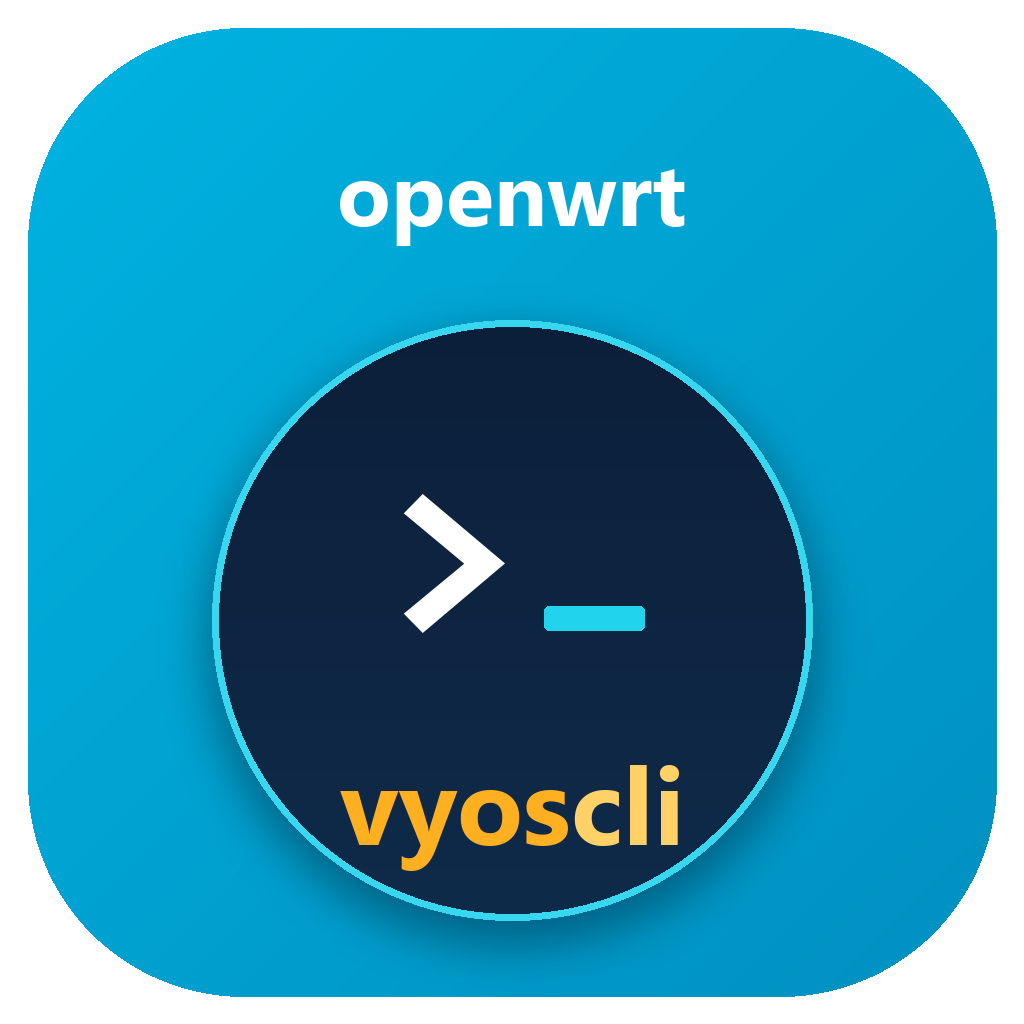
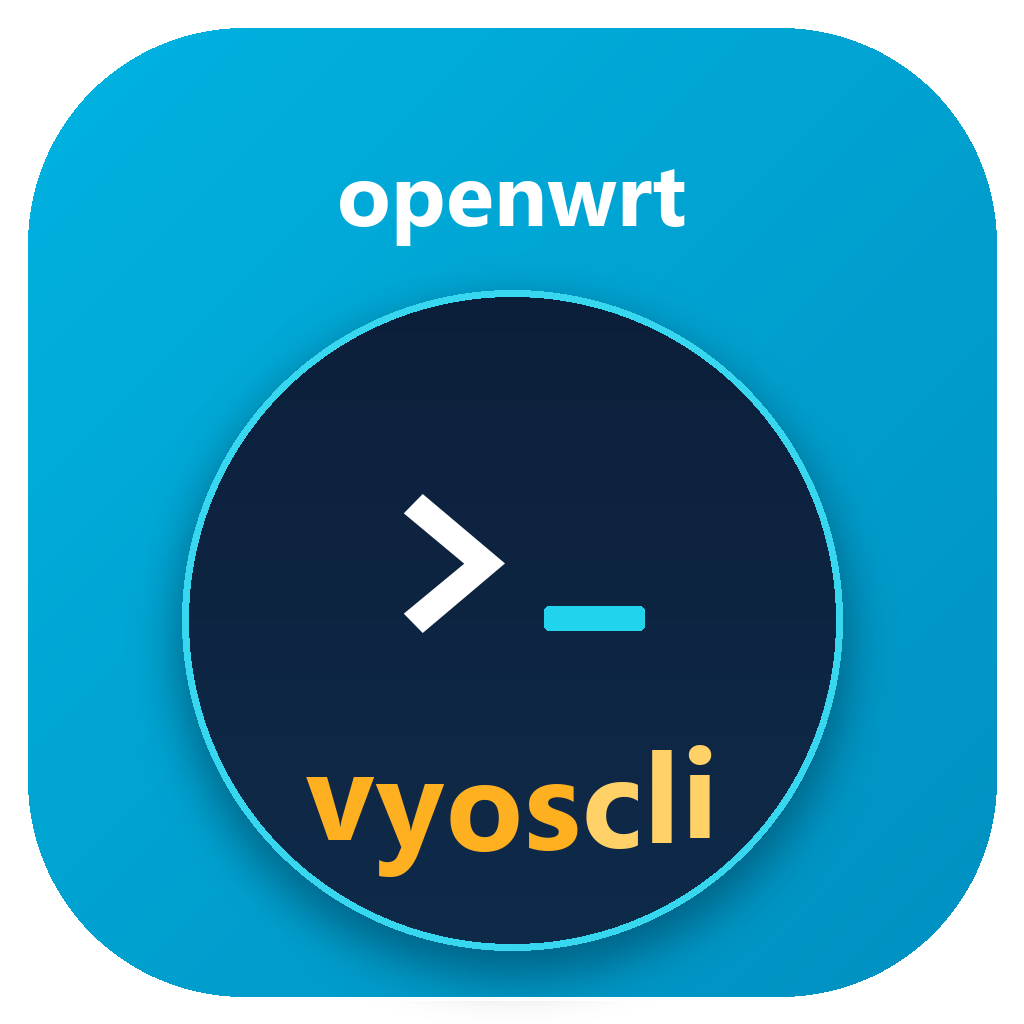
docs: enlarge vyoscli wordmark along the circle edge
The wordmark grows to 126px and sits on a shallow arc near the lower inside edge of the larger VyOS circle (radius 330), keeping upright letters for readability. PNG sizes and SVG regenerated.

Changed region(s): [[0.1562, 0.2812, 0.8438, 0.9688]]

diff --git a/scripts/make-icon.py b/scripts/make-icon.py
@@ -40,7 +40,7 @@ def main() -> None:
            fill=(255, 255, 255, 255), anchor="mm")
 
     # VyOS-colored circle: the CLI layer
-    cx, cy, r = 512, 620, 300
+    cx, cy, r = 512, 620, 330
     shadow = Image.new("RGBA", (S, S), (0, 0, 0, 0))
     ImageDraw.Draw(shadow).ellipse((cx - r, cy - r + 20, cx + r, cy + r + 20),
                                    fill=(0, 30, 55, 120))
@@ -70,13 +70,21 @@ def main() -> None:
                          x0 + gw + 28 + cursor_w, baseline),
                         radius=5, fill=CYAN + (255,))
 
-    # vyoscli wordmark
-    wf = ImageFont.truetype(FONT_BOLD, 108)
-    vw = d.textlength("vyos", font=wf)
-    cw = d.textlength("cli", font=wf)
-    sx = cx - (vw + cw) / 2
-    d.text((sx, 728), "vyos", font=wf, fill=(255, 176, 32, 255))
-    d.text((sx + vw, 728), "cli", font=wf, fill=(255, 209, 102, 255))
+    # vyoscli wordmark, large and sitting along the lower arc (upright)
+    wf = ImageFont.truetype(FONT_BOLD, 126)
+    colors = [(255, 176, 32, 255)] * 4 + [(255, 209, 102, 255)] * 3
+    text = "vyoscli"
+    widths = [d.textlength(ch, font=wf) + 2 for ch in text]
+    total = sum(widths)
+    sx = cx - total / 2
+    base_y, sag = 850, 14
+    cur = sx
+    for ch, width, color in zip(text, widths, colors):
+        x = cur + width / 2
+        norm = (x - cx) / (total / 2)
+        y = base_y - sag * norm * norm
+        d.text((x, y), ch, font=wf, fill=color, anchor="ms")
+        cur += width
 
     # outer frame
     d.rounded_rectangle((24, 24, S - 24, S - 24), radius=220,
